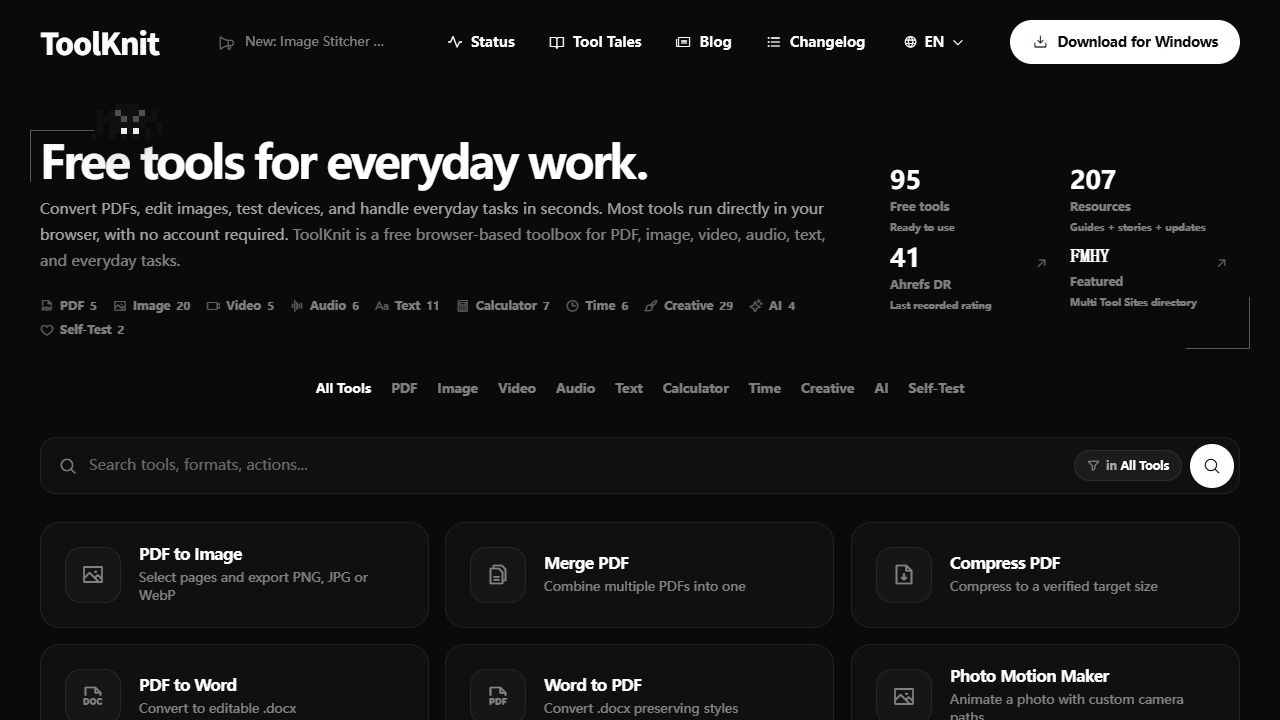
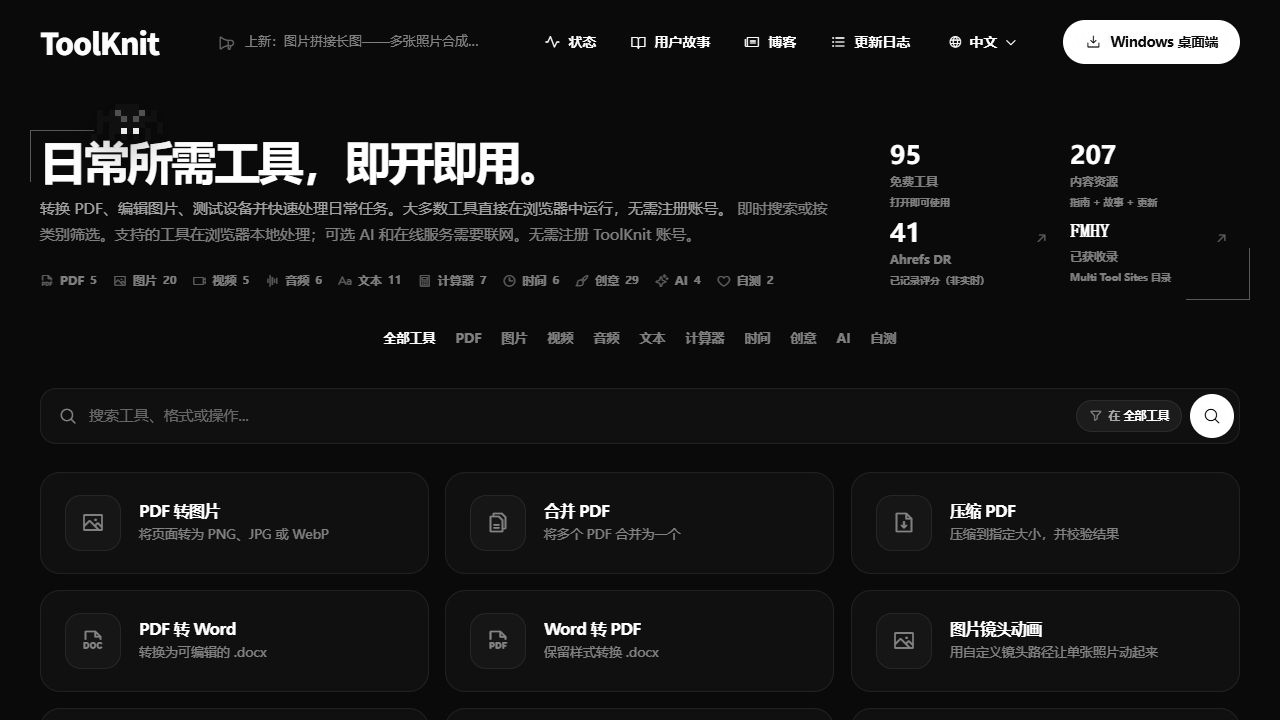
docs: finalize v3.1 readme presentation

diff --git a/README_EN.md b/README_EN.md
@@ -12,7 +12,60 @@
 
 </div>
 
+## About the project and me
+
+<p><img src="assets/readme/v3.1/spider-wave.svg" alt="The ToolKnit spider blinks and waves hello" width="88" height="88" /></p>
+
+Hi, I am Zihang Dong, an independent developer turning everyday annoyances into small tools.
+ToolKnit is a spider weaving a growing web: each need adds a thread, more tools take shape, and people discover them and help make them better.
+The boy is me; the spider on his head is the toolbox's little companion.
+
+### Try the web app first
+
+Open **[ToolKnit.com](https://toolknit.com)** without installing anything, using a modern browser on Windows, macOS, Linux or a phone.
+There are currently **95 web tools** across PDF, images, video, audio, text, calculators, time, creative tasks, AI and self-tests.
+Most need no account. Supported file tasks run locally in the browser; AI and online services explain their network requirements in each tool.
+
+### Then bring it to your desktop
+
+For recurring file tasks, clipboard history and quick captures, [install the Windows app](https://toolknit.com/exe.html) with **71 desktop tools**.
+Set your output folder first, favorite frequently used tools, and install heavy models only when needed. Enable **one-click recording mode** to combine startup, clipboard monitoring and floating screenshot history, then capture with `Alt + Q`.
+See [Get started](#08--get-started) for installation requirements and instructions.
+
+### People weaving it together
+
+<table width="100%">
+<tr>
+<td align="center" width="33%"><a href="https://github.com/ZihangDong"><img src="assets/readme/v3.1/avatar-zihang.png" width="64" height="64" alt="Zihang Dong's avatar" /><br /><strong>Zihang Dong</strong></a><br />Product design · Development · Maintenance</td>
+<td align="center" width="33%"><a href="https://github.com/Joshua-Zion"><img src="assets/readme/v3.1/avatar-joshua.png" width="64" height="64" alt="Joshua-Zion's avatar" /><br /><strong>Joshua-Zion</strong></a><br />Color spaces · Interaction improvements</td>
+<td align="center" width="33%"><a href="https://github.com/hqyx2025"><img src="assets/readme/v3.1/avatar-hqyx.png" width="64" height="64" alt="hqyx2025's avatar" /><br /><strong>hqyx2025</strong></a><br />Project verification · Bug testing</td>
+</tr>
+</table>
+
+Thanks to everyone who uses, tests and improves ToolKnit. Joshua-Zion's contributions: [PR #23](https://github.com/ZihangDong/toolknit-desktop/pull/23), [PR #67](https://github.com/ZihangDong/toolknit-desktop/pull/67).
+
+### Contents
+
+[01 The idea](#01--fewer-apps-more-things-done) · [02 Recording mode](#02--keep-the-things-you-want-to-remember) · [03 Screenshots](#03--a-screenshot-is-just-the-start) · [04 Clipboard](#04--find-what-you-copied)
+
+[05 Files](#05--keep-file-work-in-one-place) · [06 Pictures and sound](#06--a-workbench-for-pictures-and-sound) · [07 CLI / Agents](#07--work-by-hand-or-hand-it-to-an-agent) · [Actual screenshots](#the-actual-workspaces)
+
+[08 Get started](#08--get-started) · [Tool catalog](#complete-tool-catalog) · [Support and feedback](#support-and-feedback) · [License](#source-license) · [Star History](#star-history)
+
+<table width="100%">
+<tr>
+<td width="50%"><strong>MaLiang AI / 马良 AI</strong><br />Author-recommended AI gateway<br /><a href="https://www.mlai.online/register?aff=5Q2VVMD7YJVB">Explore MaLiang AI →</a></td>
+<td width="50%"><strong>Doufu AI / 豆腐 AI</strong><br />Author-recommended multi-model gateway<br /><a href="https://doufuapi.com/register?aff=TWKCBH9RGLN3">Explore Doufu AI →</a></td>
+</tr>
+</table>
+
+These are referral links. Pricing, model capabilities and availability are determined by the providers.
+
 ## 01 / Fewer apps, more things done
+
+[↑ Back to contents](#contents)
+
+Start with one small tool, then weave more of the desktop's everyday friction into one web.
 
 Crop a PDF page. Find the text you just copied. Annotate a screenshot. Remove an image background.
 Small jobs often mean switching between several applications.
@@ -20,9 +73,9 @@ Small jobs often mean switching between several applications.
 ToolKnit brings PDF, PPT, image, audio, video, text, system and developer tools together.
 Use the desktop app for local files, the web app for quick access, and CLI or Agents for suitable automated workflows.
 
-[Recording mode](#02--keep-the-things-you-want-to-remember) · [Screenshots](#03--a-screenshot-is-just-the-start) · [Tool catalog](#complete-tool-catalog) · [Get started](#08--get-started) · [License](#source-license)
-
 ## 02 / Keep the things you want to remember
+
+[↑ Back to contents](#contents)
 
 ![The boy enables recording, copies a note and captures a screenshot; the spider stores them in history](assets/readme/v3.1/02-record.webp)
 
@@ -38,6 +91,8 @@ Recording mode is opt-in. Turning it off restores the relevant settings from bef
 It does not log keystrokes, browsing or all system activity. Monitoring stops when the application fully exits.
 
 ## 03 / A screenshot is just the start
+
+[↑ Back to contents](#contents)
 
 ![The boy captures a region, annotates it, extracts and translates text, then pins the picture](assets/readme/v3.1/03-screenshot.webp)
 
@@ -61,6 +116,8 @@ Local translation time is not the whole screenshot workflow time; external AI la
 
 ## 04 / Find what you copied
 
+[↑ Back to contents](#contents)
+
 ![The spider retrieves text and a picture from clipboard history; the boy opens the picture in a pinned viewer](assets/readme/v3.1/04-clipboard.webp)
 
 **The note you copied a moment ago does not have to disappear.**
@@ -73,6 +130,8 @@ Only new clipboard content after activation is recorded; existing Windows Win + 
 Clipboard content can be sensitive, so pause monitoring and clear records as needed.
 
 ## 05 / Keep file work in one place
+
+[↑ Back to contents](#contents)
 
 ![The boy works with PDF and PPT files while the spider keeps one copy and recycles duplicates](assets/readme/v3.1/05-files.webp)
 
@@ -93,6 +152,8 @@ Cleanup safeguards cannot replace your judgment about your files.
 
 ## 06 / A workbench for pictures and sound
 
+[↑ Back to contents](#contents)
+
 ![The boy and spider work with a photo, filmstrip and waveform on a sparse black-and-white desk](assets/readme/v3.1/06-media.webp)
 
 Crop, compress, convert and stitch images; generate icons or remove backgrounds with a local model.
@@ -102,6 +163,8 @@ FFmpeg, LibreOffice, transcription and background-removal models are detected an
 Existing usable runtimes are reused where supported. WPS / Microsoft Office is not LibreOffice and cannot substitute for conversion workflows that need `soffice`.
 
 ## 07 / Work by hand, or hand it to an Agent
+
+[↑ Back to contents](#contents)
 
 ![A terminal sends file tasks to the boy and spider's workbench](assets/readme/v3.1/07-agent.webp)
 
@@ -153,6 +216,8 @@ An actual capture of [ToolKnit.com](https://toolknit.com), converted to grayscal
 The comics share the approved Chinese-language artwork in both READMEs. Their accessible descriptions and the surrounding English text explain each scene and feature.
 
 ## 08 / Get started
+
+[↑ Back to contents](#contents)
 
 ![The boy and spider wave beside a tidy desk: one developer, improved together](assets/readme/v3.1/08-start.webp)
 
@@ -209,13 +274,7 @@ See the [build guide](BUILD.md). This branch previews the README and does not an
 
 </details>
 
-## One developer, improved together
-
-| Contributor | Contribution |
-| --- | --- |
-| [Zihang Dong](https://github.com/ZihangDong) | Author, product design, development and maintenance |
-| [Joshua-Zion](https://github.com/Joshua-Zion) | Color-space conversion and interaction: [PR #23](https://github.com/ZihangDong/toolknit-desktop/pull/23), [PR #67](https://github.com/ZihangDong/toolknit-desktop/pull/67) |
-| [hqyx2025](https://github.com/hqyx2025) | Project verification and bug testing |
+## Support and feedback
 
 Thanks to [AtomGit](https://atomgit.com/) for code hosting and developer collaboration. Repository mirror: [AtomGit / ToolKnit Desktop](https://atomgit.com/ZihangDong/toolknit-desktop).
 
@@ -224,9 +283,6 @@ Thanks to [AtomGit](https://atomgit.com/) for code hosting and developer collabo
 If ToolKnit saves you time, a Star or [one-time donation](assets/readme/donation-support.webp) helps support development, AI testing and maintenance.
 [Thank you to our supporters](assets/readme/supporters-thanks.webp). Donations do not purchase a feature or promise implementation.
 Custom tools and commercial licensing: WeChat **wunanvip6**; email [2645149786@qq.com](mailto:2645149786@qq.com).
-
-The comics were created with AI assistance, referencing the sparse black-and-white linework of [handraw-style / FH-023 · Deadpan Doodle](https://github.com/yang0/handraw-style/blob/master/images/individual/FH/FH-023.webp).
-They depict new scenes with the project characters rather than reproducing the reference illustration. See the [asset notes](assets/readme/README.md).
 
 ## Source license
 
@@ -237,3 +293,7 @@ This is a source-available noncommercial license, **not an OSI-approved open-sou
 Previously granted Apache-2.0 rights are not revoked. Unmodified code previously released under Apache-2.0 and third-party contributions retain their original grants.
 See [Apache-2.0](LICENSES/Apache-2.0.txt), [NOTICE](NOTICE) and version history.
 Third-party dependencies, fonts, models and runtimes retain their own licenses. ToolKnit branding, domains and hosted web services are not licensed by the source license.
+
+## Star History
+
+[![ToolKnit GitHub stars, updated by Star History](https://api.star-history.com/chart?repos=ZihangDong/toolknit-desktop&type=date&legend=top-left&sealed_token=EEoF4uyEt78cKNHZvUBEUdT5yBOuWINv90m_TWMMcy6U8sziyyBtrHlNdiHMyYXLcobnnBnywdq7HDcegwIk0Yz4IZQieMCISiRGhbR2JeweVhmBWpGlwQPb1EQB_6ZlH62IB9O1vzTDofo6dhca9fEGaXwNwNbOe5u4ZR4-McXwDHUCSiZ234AMgx3j)](https://star-history.com/#ZihangDong/toolknit-desktop&Date)

diff --git a/docs/README_V3_1_VISUAL_REPORT.zh-CN.md b/docs/README_V3_1_VISUAL_REPORT.zh-CN.md
@@ -10,7 +10,10 @@
 - 一键记录放在第二章。把 V3.1 与原有能力融入工作流介绍，README 不设
   更新日志章节；根目录 changelog 保留未发布状态并记录文档重构。
 - 两张真实首页截图分别展示桌面界面和网页端。桌面截图是仓库当前界面
-  在浏览器中的渲染，正文明确说明原生能力需要 Windows 安装版。
+  在浏览器中的渲染，重截时使用设置中的无圆角选项；网页截图已切为中文。
+  正文明确说明原生能力需要 Windows 安装版，应用默认外观没有更改。
+- 第一章前加入项目与作者介绍、网页端和桌面端使用建议、圆形贡献者头像、
+  全章节目录及并排推荐入口。章节提供返回目录链接，底部恢复真实 Star History。
 - 中英文正文同步，英文版复用中文漫画并提供英文替代描述和解释。
 - 完整工具目录与 MCP 示例折叠显示；保留贡献者、联系方式、支持入口、
   构建步骤与当前非商业源码许可及历史 Apache-2.0 授权说明。
@@ -18,12 +21,12 @@
 ## 素材与维护
 
 - 八张漫画均为 2048 x 1152；两张截图保持实际 1280 x 720。
-- 新增图片共 4561322 bytes，约 4.35 MiB，采用灰度无损 WebP。
+- 当前 V3.1 素材共 4613896 bytes，约 4.40 MiB，包括无损 WebP、圆形 PNG 头像和 SVG。
   解码后逐通道核对 RGB 相等，避免有损色彩空间转换引入彩色像素。
 - 局部修正两处分镜中的重复蜘蛛。保留原始生成文件在本机，不发布
   API 配置、密钥、第三方参考副本、生成日志或未优化的原始图。
 - 旧首页、分类、捐赠与支持者素材全部保留，捐赠和支持者图片继续以
-  链接提供，当前 README 只嵌入十张新的章节图与截图。
+  链接提供，当前 README 嵌入八张章节图、两张截图、三个头像、一个动态表情及外部星图。
 - [素材清单](../assets/readme/README.md)维护尺寸、体积、来源和处理方式；
   [分镜说明](../assets/readme/v3.1/ILLUSTRATION_BRIEF.md)保存构图与对白。
 
@@ -31,10 +34,13 @@
 
 - 从当前工具注册与 CLI 注册核对 71 项桌面工具、12 个分类、46 项
   CLI/MCP 能力。分类数量相加为 71，不把命令行能力等同于桌面工具总数。
-- 双语 Markdown 渲染各包含 10 张图片、17 个标题与 45 个链接；本地
+- 双语 Markdown 渲染各包含 15 张图片、23 个标题与 70 个链接；本地
   文件引用与目录锚点全部存在，图片解码和加载成功。
 - 本地 GitHub 风格预览核对 1280 px 和 390 px 宽度、章节跳转及折叠
   目录。表格可横向滚动，页面整体无水平溢出。
+- 官网首页核对 95 项网页工具；不将此数与桌面端 71 项混用。头像包含透明
+  圆形遮罩，所有本地位图核对灰度通道相等。Star History 原接口 HTTP 200，
+  普通无参数授权接口拒绝访问，因此沿用已公开的原图表地址。
 - 文档任务仅执行相关数量、引用、素材、排版和 Git diff 检查，不把
   无关的应用构建或安装验证重复作为文档完成条件。
 

diff --git a/assets/readme/README.md b/assets/readme/README.md
@@ -16,11 +16,15 @@ English descriptions and surrounding text explain the Chinese comic scenes.
 | `v3.1/06-media.webp` | Image and audio/video workflows | 2048 x 1152 | 543908 |
 | `v3.1/07-agent.webp` | Desktop, CLI and MCP workflows | 2048 x 1152 | 535738 |
 | `v3.1/08-start.webp` | Getting started and independent development | 2048 x 1152 | 532642 |
-| `v3.1/desktop-home.webp` | Actual repository 3.1 homepage, browser-rendered | 1280 x 720 | 93670 |
-| `v3.1/web-home.webp` | Actual ToolKnit.com homepage | 1280 x 720 | 127870 |
+| `v3.1/desktop-home.webp` | Actual repository 3.1 homepage, browser-rendered, window radius disabled | 1280 x 720 | 92690 |
+| `v3.1/web-home.webp` | Actual Chinese ToolKnit.com homepage | 1280 x 720 | 122104 |
+| `v3.1/avatar-zihang.png` | ZihangDong public GitHub avatar | 128 x 128 | 18182 |
+| `v3.1/avatar-joshua.png` | Joshua-Zion public GitHub avatar | 128 x 128 | 21555 |
+| `v3.1/avatar-hqyx.png` | hqyx2025 public GitHub avatar | 128 x 128 | 18412 |
+| `v3.1/spider-wave.svg` | Original blinking, waving spider expression | 88 x 88 | 1171 |
 
-Total: 4561322 bytes (approximately 4.35 MiB). All files are lossless grayscale
-WebP, with equal RGB channels verified after decoding. Comic exports are 2K;
+Total: 4613896 bytes (approximately 4.40 MiB). Raster files are lossless grayscale
+WebP or PNG, with equal RGB channels verified after decoding. Comic exports are 2K;
 screenshots retain their actual capture resolution rather than being upscaled.
 
 ## Creation and references
@@ -39,7 +43,19 @@ screenshots retain their actual capture resolution rather than being upscaled.
 - Both screenshots were captured on 2026-10-15. The desktop capture uses the
   current repository interface rendered through Vite in a browser, not a
   demonstration of native Windows functions. The web capture is the live
-  public homepage. Only grayscale conversion and WebP encoding were applied.
+  public homepage switched to Chinese. The desktop's existing Settings / Window
+  appearance / No rounded corners option was used before capture; production
+  styles were not changed. Only grayscale conversion and WebP encoding were
+  applied to the captured pixels.
+- Contributor avatars were retrieved from public GitHub profile image URLs on
+  2026-10-15, resized to 128 x 128, converted to grayscale and masked into circles
+  with transparent corners. They identify the credited contributors only.
+- The expression SVG is original project artwork. Declarative SVG animation
+  makes the spider blink and wave; its static appearance still works if a viewer
+  disables animation. It contains no scripts or external references.
+- The bottom Star History image reuses the previous public service chart URL,
+  checked successfully (HTTP 200). It updates through the service rather than
+  using the illustrative local `star-growth.svg`; third-party availability varies.
 - Raw generation output, third-party reference copies, API configuration,
   credentials, local logs and private maintenance Skills are not published.
 

diff --git a/changelog.md b/changelog.md
@@ -48,7 +48,7 @@
 
 ### 界面与体验
 
-- 重构中英文项目自述文件，以黑白漫画介绍完整工作流，突出一键记录、快速截图与剪贴板历史；补充真实首页截图、工具目录及本地处理与 AI 使用边界。
+- 重构中英文项目自述文件，以黑白漫画介绍完整工作流，突出一键记录、快速截图与剪贴板历史；加入项目与作者介绍、使用入口、圆形贡献者头像、可往返的章节目录和并排推荐入口，更新中文网页端与无圆角桌面端真实截图，恢复底部动态星图，并说明本地处理与 AI 使用边界。
 - 统一工具页与二级页面导航、双主题配色和图标悬停动画，补齐帮助中心、反馈与设置入口，改善来源页返回和页面切换。
 - 设置按常用程度重新排序，统一依赖管理弹框；新增首页工具懒加载开关，默认分批显示，关闭后显示全部工具。
 - 首页新增定制工具联系入口；修复深色背景、捐赠图片及部分双语文案显示。
